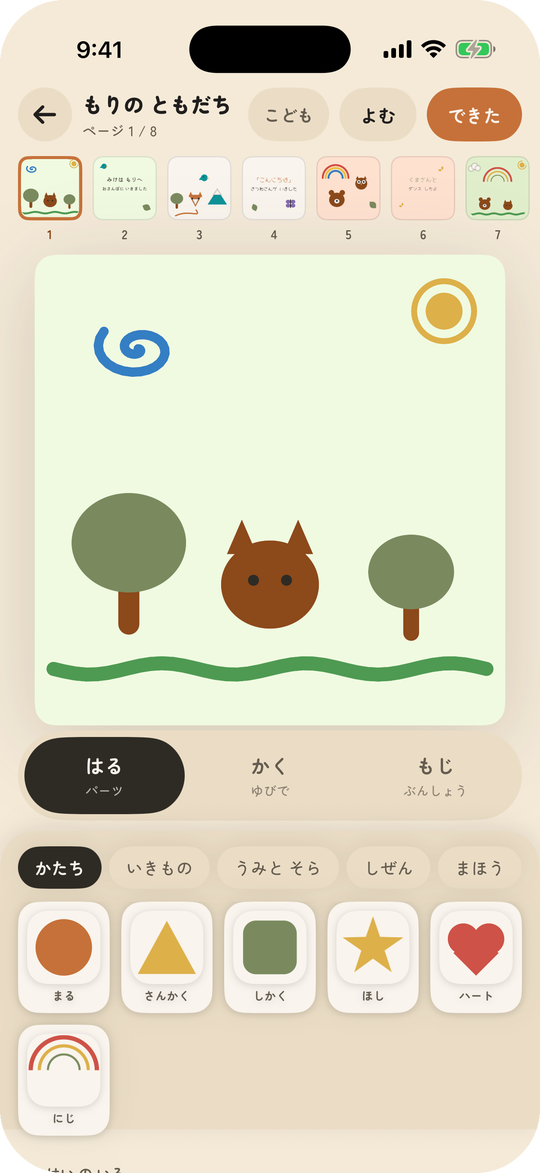
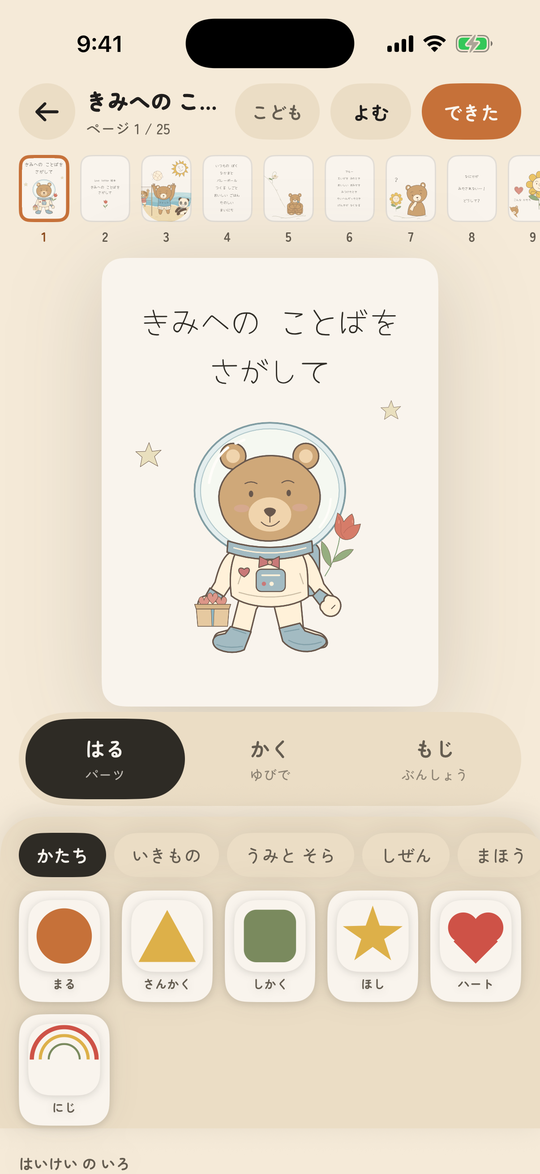
README: the new shelf, the story picker and the web on every platform, with fresh screenshots
Screenshots retaken from the iPhone 17 Pro and iPad Pro 11-inch simulators in Japanese and from
the web at 1200 px: the shelf with its two start tiles and the gear, the ten-story templates
screen, はる, もじ, かぞくに おくる, the guest page, the reader spread on the phone and the iPad,
and the web shelf, story picker, studio and reader. Two more Love Letter spreads (space, Venus)
join Mars and the garden; the redrawn sharing rabbit illustrates the love-letter README.

The prose now leads with the blank page or a story, describes sign-in behind the gear and
page-by-page sync, counts ten stories, and records TestFlight and App Check status.

diff --git a/README.md b/README.md
@@ -11,15 +11,16 @@
 </p>
 
 <p align="center">
-  <img src="docs/readme/phone-shelf.png" width="19%" alt="ほんだな: the bookshelf">
-  <img src="docs/readme/phone-editor.png" width="19%" alt="はる: sticking parts onto a page">
-  <img src="docs/readme/phone-text.png" width="19%" alt="もじ: words, with six fonts to pick from">
-  <img src="docs/readme/phone-share.png" width="19%" alt="かぞくに おくる: sending the book to family">
-  <img src="docs/readme/phone-guest.png" width="19%" alt="Grandma's side: hold the button to leave a voice reply">
+  <img src="docs/readme/phone-shelf.png" width="16%" alt="ほんだな: the shelf, with a blank page and the stories one tap away">
+  <img src="docs/readme/phone-templates.png" width="16%" alt="テンプレート: ten stories, each shown as its opening spread">
+  <img src="docs/readme/phone-editor.png" width="16%" alt="はる: sticking parts onto a page">
+  <img src="docs/readme/phone-text.png" width="16%" alt="もじ: words, with six fonts to pick from">
+  <img src="docs/readme/phone-share.png" width="16%" alt="かぞくに おくる: sending the book to family">
+  <img src="docs/readme/phone-guest.png" width="16%" alt="Grandma's side: hold the button to leave a voice reply">
 </p>
 
 <p align="center">
-  <img src="docs/readme/phone-read.png" width="96%" alt="よむ: a two-page spread, with grandma's voice waiting on the page">
+  <img src="docs/readme/phone-read.png" width="96%" alt="よむ: a two-page spread of きみへの ことばを さがして">
 </p>
 
 <p align="center">
@@ -28,35 +29,51 @@
 </p>
 
 <p align="center"><sub>
-  Shelf · はる (stick) · もじ (words) · send to family · grandma's reply screen · reading spread · iPad make and read
+  Shelf · stories · はる (stick) · もじ (words) · send to family · grandma's reply screen · reading spread · iPad make and read
 </sub></p>
+
+<p align="center">
+  <img src="docs/readme/web-shelf.png" width="49%" alt="The web shelf: start on a blank page or from a story, your books below">
+  <img src="docs/readme/web-templates.png" width="49%" alt="The web story picker: every story previewed as its opening spread">
+</p>
 
 <p align="center">
   <img src="docs/readme/web-studio.png" width="49%" alt="The web studio: a facing-page spread on the desk, every piece and caption its own item">
   <img src="docs/readme/web-reader.png" width="49%" alt="The web reader: facing pages, read-aloud, full screen and print">
 </p>
 
+<p align="center"><sub>
+  The web shelf, the story picker, the studio and the reader: the same books, on the phone or in the browser
+</sub></p>
+
 <p align="center">
+  <img src="docs/readme/love-letter-space.png" width="49%" alt="きみへの ことばを さがして: the bear sets off for space">
   <img src="docs/readme/love-letter-mars.png" width="49%" alt="きみへの ことばを さがして: the Mars spread, drawn from the storyboard">
+</p>
+
+<p align="center">
+  <img src="docs/readme/love-letter-venus.png" width="49%" alt="きみへの ことばを さがして: the carrot field on Venus">
   <img src="docs/readme/love-letter-garden.png" width="49%" alt="きみへの ことばを さがして: the carrot garden under the moon">
 </p>
 
 <p align="center"><sub>
-  The web studio and reader · two spreads of きみへの ことばを さがして, a hand-drawn storyboard bound as a book document
+  Four spreads of きみへの ことばを さがして, a hand-drawn storyboard bound as a book document; every character is a piece the child can move
 </sub></p>
 
 ## What it does
 
-- **Start from a template**, then stick parts on the page, draw with a finger, or write words. Three modes, never overlapping, so a small hand cannot wreck a page by accident.
+- **Start on a blank white page, or pick a story.** The shelf on the phone and on the web opens the same two doors: まっしろな ページから gives one blank page with the brush ready, テンプレートから lists ten stories, each previewed as its opening spread, and copies the one you choose onto your shelf with every picture movable and every word editable.
+- **Then stick, draw or write.** Parts go on the page, a finger draws, words are typed. Three modes, never overlapping, so a small hand cannot wreck a page by accident.
 - **Words in six faces**: てがき, まるまる, えほん, ぽっぷ, マーカー, ふとまる. One ships in the app; the others download on first use. Japanese books get a furigana field in おとな mode.
 - **Reading is a two-page spread** with a drag-driven page fold, read-aloud, and おやすみ mode that turns pages by itself at bedtime.
 - **Family can join in.** Send the book as an `.ehon` file or a printable PDF. A grandparent can hold a button to leave a voice reply on a page, and it plays back during reading.
+- **Signed in, the shelf follows you.** Apple or Google sign-in on the phone or in the browser, both behind the gear on the shelf. Books sync page by page; one device edits a book at a time and the other reads along. A read-only guest link needs no account, and the browser can be signed in by scanning a QR code with the phone.
 - **こども / おとな** switch: bigger targets and fewer knobs for the child; layering, furigana and page reordering for the adult.
 - **iPad**: hold it upright to make, turn it sideways to read.
 - Japanese first. The UI falls back to English on other devices.
 - **A book is one document.** Pictures travel inside the `.ehon` file as SVG, so a person or a language model can write or rework a whole illustrated book, and every piece stays movable and every caption editable on the phone and the web alike. The contract is [`docs/EHON_FORMAT.md`](docs/EHON_FORMAT.md).
-- **Story templates are storyboards bound as books.** Each story in `shared/templates/` is a `story.json` with its SVG pieces, assembled at build time into the document the shelf copies. きみへの ことばを さがして is the worked example: a cover, a title page, twenty-two storyboard pages picture-left words-right, and a back cover, drawn from the author's pencil sketches with every character a piece the child can move. Four original stories are bound the same way: はっぱの かさ (a frog's leaf umbrella fills with friends on a rainy day), おおきく なあれ (a girl grows a sunflower while a mole guards its roots), はじめての なつまつり (a fox cub's first summer festival) and ゆきうさぎの よる (a snow rabbit that comes alive under the moon).
-- **On the web**, the same core draws in a React studio: a canvas-first desk that shows illustrated books as facing pages, brush, eraser, words with furigana, the book's own pieces as materials, and a reader one click away with read-aloud, full screen and printing that lays every spread on its own sheet. With a Firebase project configured it is for signed-in grown-ups: a landing page in front, Apple or Google sign-in, or a QR code the phone app scans to sign the browser in, then sync with the phone, illustration uploads and read-only guest links that need no account.
+- **Story templates are storyboards bound as books.** Each story in `shared/templates/` is a `story.json` with its SVG pieces, assembled at build time into the document the shelf copies. きみへの ことばを さがして is the worked example: a cover, a title page, twenty-two storyboard pages picture-left words-right, and a back cover, drawn from the author's pencil sketches with every character a piece the child can move. Four originals for small children are bound the same way: はっぱの かさ (a frog's leaf umbrella fills with friends on a rainy day), おおきく なあれ (a girl grows a sunflower while a mole guards its roots), はじめての なつまつり (a fox cub's first summer festival) and ゆきうさぎの よる (a snow rabbit that comes alive under the moon). Five 25-page originals for older readers, one of them in English, follow in [Story templates](#story-templates).
+- **On the web**, the same core draws in a React studio: a canvas-first desk that shows illustrated books as facing pages, brush, eraser, words with furigana, the book's own pieces as materials, PNG uploads that become parts on every device, and a reader one click away with read-aloud, full screen and printing that lays every spread on its own sheet. With a Firebase project configured it is for signed-in grown-ups, with a landing page in front; a checkout without one is a complete local book maker.
 
 ## How it is built
 
@@ -71,7 +88,7 @@ web/               React studio, shelf and reader over the generated Kotlin/JS c
 backend/           Firestore rules, Tokyo functions, the assets worker and their emulator tests
 docs/DECISIONS.md  Why things are the way they are
 docs/EHON_FORMAT.md  The book document a model or a person writes: pages, words, SVG art
-docs/WEB_BACKEND_PLAN.md  The web studio and backend, phase by phase (Phases 0–2 implemented locally)
+docs/WEB_BACKEND_PLAN.md  The web studio and backend, phase by phase (Phases 0–2 implemented)
 ```
 
 Mutation happens only in Kotlin. Swift sends intents and repaints; see the decision record for the interop lessons behind that rule.
@@ -119,7 +136,10 @@ A template is a folder in `shared/templates/<story>/`: a `story.json` that is th
 portable document plus an `index.json` in `shared/build/templates/`, which the checker reads and
 the clients fetch. Nothing is compiled into the apps: the documents are published to the assets
 bucket behind the Worker, the phone and the web read the index at runtime and keep a copy, so a new
-or corrected story reaches every device without a release (decision #60).
+or corrected story reaches every device without a release (decision #60). While developing, nothing
+is fetched: `make web` reads the assembled copy from the dev server and a Debug iOS build carries it
+in its bundle, so the templates screen works offline and without a cloud configuration; release
+builds fetch the published index (decision #61).
 
 ```sh
 make web-core                                   # assembles every story on the way
@@ -149,11 +169,11 @@ also invite older readers to explore grief, identity, regret and the things we h
 The English book sets `contentLocale: "en"`, including English story text, artwork names and
 colophon fields. Its read-aloud language follows that locale. Preview any book at
 `/app?template=doc-<folder-name>` after assembling the templates. New folders enter the shared
-web and iOS catalog automatically when its documents and index are published.
+web and iOS catalog automatically when their documents and index are published.
 
 ## Status
 
-Working prototype heading into closed testing. Not on the App Store. Books live on the device and the reply recorder lives inside the app. Phases 0–2 of [`docs/WEB_BACKEND_PLAN.md`](docs/WEB_BACKEND_PLAN.md) are implemented locally: codec v4 (still reads v1 to v3) with SVG art inside the document, ten story templates written as documents, the Kotlin/JS core, a web shelf, a canvas-first studio with facing pages, a reader that prints, accounts with book sync on iOS and web, read-only guest links, PNG uploads that become parts on every device, sliced web fonts and Lighthouse byte budgets in CI. Everything runs against the Firebase emulators. The dev environment is deployed: Firebase project, Tokyo functions, R2 bucket behind the assets Worker, and the web app on Cloudflare Pages behind a sign-in landing page with a QR hand-off from the phone app; App Check registration is the last provisioning step before browser uploads and links work on the live site. Advanced layered raster painting, AI, billing and packs remain in Phases 3–4.
+Working prototype, in TestFlight for closed testing. Not on the App Store. Books live on the device; signed in, they sync between the phone and the web. Phases 0–2 of [`docs/WEB_BACKEND_PLAN.md`](docs/WEB_BACKEND_PLAN.md) are implemented: codec v4 (still reads v1 to v3) with SVG art inside the document, ten story templates written as documents and published to the assets bucket, the Kotlin/JS core, a web shelf, a canvas-first studio with facing pages, a reader that prints, accounts with book sync on iOS and web, read-only guest links, PNG uploads that become parts on every device, sliced web fonts and Lighthouse byte budgets in CI. Everything also runs against the Firebase emulators. The dev environment is deployed: Firebase project, Tokyo functions, R2 bucket behind the assets Worker, and the web app on Cloudflare Pages behind a sign-in landing page with a QR hand-off from the phone app. App Check is registered for the web; registering the iOS app is the remaining provisioning step before voice backup and guest links work from the phone against the live project. Advanced layered raster painting, AI, billing and packs remain in Phases 3–4.
 
 ## License
 

diff --git a/shared/templates/love-letter/README.md b/shared/templates/love-letter/README.md
@@ -42,6 +42,9 @@ The photos guide the scenes, poses, lettering and composition. The hiding and sh
 share cream fur, pink inner ears and rosy cheeks. As the bear's love interest, the sharing rabbit
 has a gentle head tilt, one softly folded ear, bright eyes and a small smile. Its compact seated
 body has tucked feet and small paws holding the carrot close, with a flower by its ear.
+
+<p align="center"><img src="../../../docs/readme/love-letter-rabbit.png" width="210" alt="The sharing rabbit, redrawn: cream fur, pink inner ears, one folded ear, the carrot held close"></p>
+
 The astronaut bear wears a closed glass dome with a neck seal, a padded suit, gloves and boots;
 the same illustration appears on the cover and the departure page.
 The flat colours are an interpretation of the pencil drawings. Each encounter has its own steep planet
